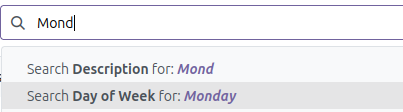
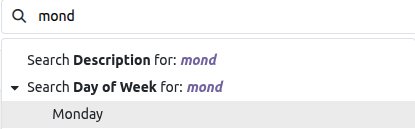
[MIG] hr_timesheet_day_week: Migration to 19.0

diff --git a/hr_timesheet_day_week/static/description/index.html b/hr_timesheet_day_week/static/description/index.html
@@ -374,7 +374,7 @@ ul.auto-toc {
 !!!!!!!!!!!!!!!!!!!!!!!!!!!!!!!!!!!!!!!!!!!!!!!!!!!!
 !! source digest: sha256:7a86c322dbe32ae0db935799f30e6c257784d7ea7b3093829025dd2fca7aa6fd
 !!!!!!!!!!!!!!!!!!!!!!!!!!!!!!!!!!!!!!!!!!!!!!!!!!!! -->
-<p><a class="reference external image-reference" href="https://odoo-community.org/page/development-status"><img alt="Beta" src="https://img.shields.io/badge/maturity-Beta-yellow.png" /></a> <a class="reference external image-reference" href="http://www.gnu.org/licenses/agpl-3.0-standalone.html"><img alt="License: AGPL-3" src="https://img.shields.io/badge/license-AGPL--3-blue.png" /></a> <a class="reference external image-reference" href="https://github.com/OCA/timesheet/tree/18.0/hr_timesheet_day_week"><img alt="OCA/timesheet" src="https://img.shields.io/badge/github-OCA%2Ftimesheet-lightgray.png?logo=github" /></a> <a class="reference external image-reference" href="https://translation.odoo-community.org/projects/timesheet-18-0/timesheet-18-0-hr_timesheet_day_week"><img alt="Translate me on Weblate" src="https://img.shields.io/badge/weblate-Translate%20me-F47D42.png" /></a> <a class="reference external image-reference" href="https://runboat.odoo-community.org/builds?repo=OCA/timesheet&amp;target_branch=18.0"><img alt="Try me on Runboat" src="https://img.shields.io/badge/runboat-Try%20me-875A7B.png" /></a></p>
+<p><a class="reference external image-reference" href="https://odoo-community.org/page/development-status"><img alt="Beta" src="https://img.shields.io/badge/maturity-Beta-yellow.png" /></a> <a class="reference external image-reference" href="http://www.gnu.org/licenses/agpl-3.0-standalone.html"><img alt="License: AGPL-3" src="https://img.shields.io/badge/license-AGPL--3-blue.png" /></a> <a class="reference external image-reference" href="https://github.com/OCA/timesheet/tree/19.0/hr_timesheet_day_week"><img alt="OCA/timesheet" src="https://img.shields.io/badge/github-OCA%2Ftimesheet-lightgray.png?logo=github" /></a> <a class="reference external image-reference" href="https://translation.odoo-community.org/projects/timesheet-19-0/timesheet-19-0-hr_timesheet_day_week"><img alt="Translate me on Weblate" src="https://img.shields.io/badge/weblate-Translate%20me-F47D42.png" /></a> <a class="reference external image-reference" href="https://runboat.odoo-community.org/builds?repo=OCA/timesheet&amp;target_branch=19.0"><img alt="Try me on Runboat" src="https://img.shields.io/badge/runboat-Try%20me-875A7B.png" /></a></p>
 <p>For timesheets, enables search, group by the day of the week. This is
 useful when e.g. weekend timesheets needs to be located.</p>
 <p><strong>Table of contents</strong></p>
@@ -395,13 +395,13 @@ useful when e.g. weekend timesheets needs to be located.</p>
 <h2><a class="toc-backref" href="#toc-entry-1">Usage</a></h2>
 <p>Now it’s possible to search by and/or group by day of week for
 timesheets:</p>
-<p><img alt="Search by day of week" src="https://raw.githubusercontent.com/OCA/timesheet/18.0/hr_timesheet_day_week/static/img/01_search.png" /></p>
-<p><img alt="Group by day of week" src="https://raw.githubusercontent.com/OCA/timesheet/18.0/hr_timesheet_day_week/static/img/02_groupby.png" /></p>
+<p><img alt="Search by day of week" src="https://raw.githubusercontent.com/OCA/timesheet/19.0/hr_timesheet_day_week/static/img/01_search.png" /></p>
+<p><img alt="Group by day of week" src="https://raw.githubusercontent.com/OCA/timesheet/19.0/hr_timesheet_day_week/static/img/02_groupby.png" /></p>
 <p>For timesheet and timesheet report list views, it’s possible to view in
 a different color those timesheets that belong to weekends:</p>
-<p><img alt="Colored list" src="https://raw.githubusercontent.com/OCA/timesheet/18.0/hr_timesheet_day_week/static/img/03_list.png" /></p>
+<p><img alt="Colored list" src="https://raw.githubusercontent.com/OCA/timesheet/19.0/hr_timesheet_day_week/static/img/03_list.png" /></p>
 <p>and additionally use a filter for them:</p>
-<p><img alt="Filter by weekend timesheets" src="https://raw.githubusercontent.com/OCA/timesheet/18.0/hr_timesheet_day_week/static/img/04_filter.png" /></p>
+<p><img alt="Filter by weekend timesheets" src="https://raw.githubusercontent.com/OCA/timesheet/19.0/hr_timesheet_day_week/static/img/04_filter.png" /></p>
 </div>
 <div class="section" id="known-issues-roadmap">
 <h2><a class="toc-backref" href="#toc-entry-2">Known issues / Roadmap</a></h2>
@@ -416,7 +416,7 @@ Saturday and Sunday days.</li>
 <p>Bugs are tracked on <a class="reference external" href="https://github.com/OCA/timesheet/issues">GitHub Issues</a>.
 In case of trouble, please check there if your issue has already been reported.
 If you spotted it first, help us to smash it by providing a detailed and welcomed
-<a class="reference external" href="https://github.com/OCA/timesheet/issues/new?body=module:%20hr_timesheet_day_week%0Aversion:%2018.0%0A%0A**Steps%20to%20reproduce**%0A-%20...%0A%0A**Current%20behavior**%0A%0A**Expected%20behavior**">feedback</a>.</p>
+<a class="reference external" href="https://github.com/OCA/timesheet/issues/new?body=module:%20hr_timesheet_day_week%0Aversion:%2019.0%0A%0A**Steps%20to%20reproduce**%0A-%20...%0A%0A**Current%20behavior**%0A%0A**Expected%20behavior**">feedback</a>.</p>
 <p>Do not contact contributors directly about support or help with technical issues.</p>
 </div>
 <div class="section" id="credits">
@@ -449,7 +449,7 @@ If you spotted it first, help us to smash it by providing a detailed and welcome
 <p>OCA, or the Odoo Community Association, is a nonprofit organization whose
 mission is to support the collaborative development of Odoo features and
 promote its widespread use.</p>
-<p>This module is part of the <a class="reference external" href="https://github.com/OCA/timesheet/tree/18.0/hr_timesheet_day_week">OCA/timesheet</a> project on GitHub.</p>
+<p>This module is part of the <a class="reference external" href="https://github.com/OCA/timesheet/tree/19.0/hr_timesheet_day_week">OCA/timesheet</a> project on GitHub.</p>
 <p>You are welcome to contribute. To learn how please visit <a class="reference external" href="https://odoo-community.org/page/Contribute">https://odoo-community.org/page/Contribute</a>.</p>
 </div>
 </div>

diff --git a/hr_timesheet_day_week/__manifest__.py b/hr_timesheet_day_week/__manifest__.py
@@ -4,7 +4,7 @@
 {
     "name": "Timesheets - Day of Week",
     "category": "Human Resources",
-    "version": "18.0.1.0.0",
+    "version": "19.0.1.0.0",
     "depends": ["hr_timesheet"],
     "data": ["views/hr_timesheet_view.xml", "report/timesheets_analysis_report.xml"],
     "author": "Solvos, Odoo Community Association (OCA)",

diff --git a/hr_timesheet_day_week/README.rst b/hr_timesheet_day_week/README.rst
@@ -21,13 +21,13 @@ Timesheets - Day of Week
     :target: http://www.gnu.org/licenses/agpl-3.0-standalone.html
     :alt: License: AGPL-3
 .. |badge3| image:: https://img.shields.io/badge/github-OCA%2Ftimesheet-lightgray.png?logo=github
-    :target: https://github.com/OCA/timesheet/tree/18.0/hr_timesheet_day_week
+    :target: https://github.com/OCA/timesheet/tree/19.0/hr_timesheet_day_week
     :alt: OCA/timesheet
 .. |badge4| image:: https://img.shields.io/badge/weblate-Translate%20me-F47D42.png
-    :target: https://translation.odoo-community.org/projects/timesheet-18-0/timesheet-18-0-hr_timesheet_day_week
+    :target: https://translation.odoo-community.org/projects/timesheet-19-0/timesheet-19-0-hr_timesheet_day_week
     :alt: Translate me on Weblate
 .. |badge5| image:: https://img.shields.io/badge/runboat-Try%20me-875A7B.png
-    :target: https://runboat.odoo-community.org/builds?repo=OCA/timesheet&target_branch=18.0
+    :target: https://runboat.odoo-community.org/builds?repo=OCA/timesheet&target_branch=19.0
     :alt: Try me on Runboat
 
 |badge1| |badge2| |badge3| |badge4| |badge5|
@@ -59,17 +59,17 @@ and additionally use a filter for them:
 
 |Filter by weekend timesheets|
 
-.. |Search by day of week| image:: https://raw.githubusercontent.com/OCA/timesheet/18.0/hr_timesheet_day_week/static/img/01_search.png
-.. |Group by day of week| image:: https://raw.githubusercontent.com/OCA/timesheet/18.0/hr_timesheet_day_week/static/img/02_groupby.png
-.. |Colored list| image:: https://raw.githubusercontent.com/OCA/timesheet/18.0/hr_timesheet_day_week/static/img/03_list.png
-.. |Filter by weekend timesheets| image:: https://raw.githubusercontent.com/OCA/timesheet/18.0/hr_timesheet_day_week/static/img/04_filter.png
+.. |Search by day of week| image:: https://raw.githubusercontent.com/OCA/timesheet/19.0/hr_timesheet_day_week/static/img/01_search.png
+.. |Group by day of week| image:: https://raw.githubusercontent.com/OCA/timesheet/19.0/hr_timesheet_day_week/static/img/02_groupby.png
+.. |Colored list| image:: https://raw.githubusercontent.com/OCA/timesheet/19.0/hr_timesheet_day_week/static/img/03_list.png
+.. |Filter by weekend timesheets| image:: https://raw.githubusercontent.com/OCA/timesheet/19.0/hr_timesheet_day_week/static/img/04_filter.png
 
 Known issues / Roadmap
 ======================
 
-- Make weekend definition parametrized, as there are countries around
-  the world that their weekend days are different than usual western
-  Saturday and Sunday days.
+-  Make weekend definition parametrized, as there are countries around
+   the world that their weekend days are different than usual western
+   Saturday and Sunday days.
 
 Bug Tracker
 ===========
@@ -77,7 +77,7 @@ Bug Tracker
 Bugs are tracked on `GitHub Issues <https://github.com/OCA/timesheet/issues>`_.
 In case of trouble, please check there if your issue has already been reported.
 If you spotted it first, help us to smash it by providing a detailed and welcomed
-`feedback <https://github.com/OCA/timesheet/issues/new?body=module:%20hr_timesheet_day_week%0Aversion:%2018.0%0A%0A**Steps%20to%20reproduce**%0A-%20...%0A%0A**Current%20behavior**%0A%0A**Expected%20behavior**>`_.
+`feedback <https://github.com/OCA/timesheet/issues/new?body=module:%20hr_timesheet_day_week%0Aversion:%2019.0%0A%0A**Steps%20to%20reproduce**%0A-%20...%0A%0A**Current%20behavior**%0A%0A**Expected%20behavior**>`_.
 
 Do not contact contributors directly about support or help with technical issues.
 
@@ -92,10 +92,10 @@ Authors
 Contributors
 ------------
 
-- `Solvos <https://www.solvos.es>`__:
+-  `Solvos <https://www.solvos.es>`__:
 
-     - David Alonso
-     - Adrián Resúa
+      -  David Alonso
+      -  Adrián Resúa
 
 Maintainers
 -----------
@@ -110,6 +110,6 @@ OCA, or the Odoo Community Association, is a nonprofit organization whose
 mission is to support the collaborative development of Odoo features and
 promote its widespread use.
 
-This module is part of the `OCA/timesheet <https://github.com/OCA/timesheet/tree/18.0/hr_timesheet_day_week>`_ project on GitHub.
+This module is part of the `OCA/timesheet <https://github.com/OCA/timesheet/tree/19.0/hr_timesheet_day_week>`_ project on GitHub.
 
 You are welcome to contribute. To learn how please visit https://odoo-community.org/page/Contribute.
